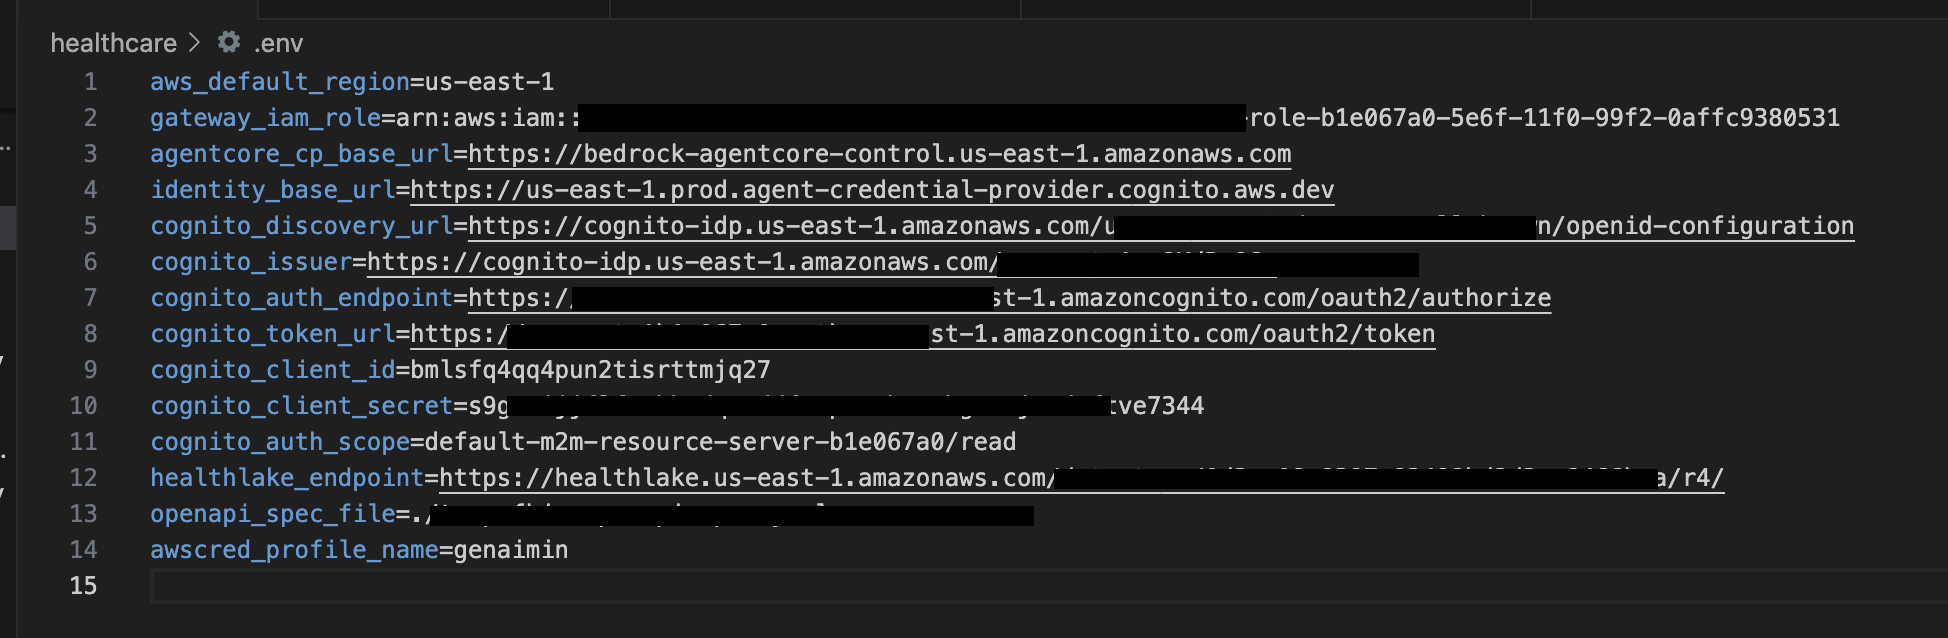
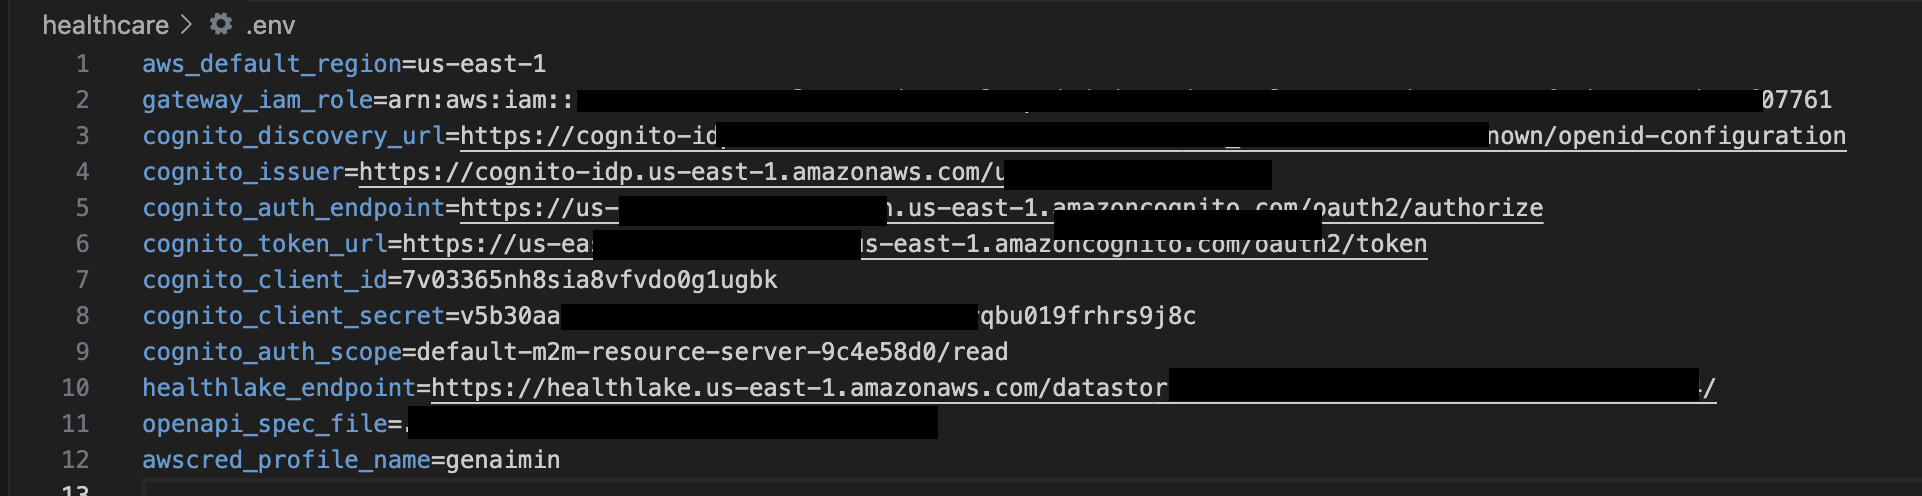
Removed endpoints

Changed region(s): [[0.0, 0.0302, 0.9677, 0.9677], [0.0312, 0.9677, 0.0624, 1.0]]

diff --git a/02-use-cases/05-Healthcare-Appointment-Agent/init_env.py b/02-use-cases/05-Healthcare-Appointment-Agent/init_env.py
@@ -16,8 +16,6 @@ parser = argparse.ArgumentParser(
 
 parser.add_argument('--cfn_name', help = "Name of cloudformation template")
 parser.add_argument('--region', default="us-east-1", help = "The AWS region to be used")
-parser.add_argument('--agentcore_endpoint', default="https://bedrock-agentcore-control.us-east-1.amazonaws.com", help = "The Gateway control plane endpoint")
-parser.add_argument('--identity_endpoint', default="https://us-east-1.prod.agent-credential-provider.cognito.aws.dev", help = "The endpoint for Identity primitive")
 parser.add_argument('--openapi_spec_file', default="./temp-fhir-openapi-spec.yaml", help = "Path of OpenAPI spec file")
 parser.add_argument('--profile', help = "AWS Credentials Profile Name (optional)")
 
@@ -29,8 +27,6 @@ def main():
     env_vars = {
         "aws_default_region": args.region,
         "gateway_iam_role": "",
-        "agentcore_cp_base_url":args.agentcore_endpoint,
-        "identity_base_url":args.identity_endpoint,
         "cognito_discovery_url":"",
         "cognito_issuer":"",
         "cognito_auth_endpoint":"",
@@ -148,20 +144,6 @@ if __name__ == "__main__":
         raise Exception("AWS Region is required")
     elif args.region!= "us-east-1" and args.region!= "us-west-2":
         raise Exception("Only regions us-east-1 and us-west-2 are supported for now")
-    
-    if args.agentcore_endpoint is None:
-        raise Exception("AgentCore endpoint is required")
-    else:
-        (urlString, exitCode) = validate_url(args.agentcore_endpoint)
-        if exitCode != 0:
-            raise Exception(urlString)
-        
-    if args.identity_endpoint is None:
-        raise Exception("Identity endpoint is required")
-    else:
-        (urlString, exitCode) = validate_url(args.identity_endpoint)
-        if exitCode != 0:
-            raise Exception(urlString)
         
     if args.openapi_spec_file is None:
         raise Exception("OpenAPI spec file path required")

diff --git a/02-use-cases/05-Healthcare-Appointment-Agent/utils.py b/02-use-cases/05-Healthcare-Appointment-Agent/utils.py
@@ -12,14 +12,12 @@ load_dotenv()
 def create_agentcore_client():
     #create boto3 session and client
     if os.getenv("awscred_profile_name") is None:
-        boto_session = boto3.Session() #using default profile
+        boto_session = boto3.Session(region_name=os.getenv("aws_default_region")) #using default profile
     else:
-        boto_session = boto3.Session(profile_name=os.getenv("awscred_profile_name"))
+        boto_session = boto3.Session(profile_name=os.getenv("awscred_profile_name"), region_name=os.getenv("aws_default_region"))
 
     agentcore_client = boto_session.client(
-        "bedrock-agentcore-control",
-        region_name=os.getenv("aws_default_region"),
-        endpoint_url=os.getenv("agentcore_cp_base_url")
+        "bedrock-agentcore-control"
     )
 
     return boto_session, agentcore_client
@@ -42,23 +40,6 @@ def list_gateways(agentcore_client):
     response = agentcore_client.list_gateways()
 
     return response['items']
-
-def list_egress_oauth_providers():
-    try:
-        command = [
-            "aws", "acps", "list-oauth2-credential-providers",
-            "--endpoint-url", os.getenv("identity_base_url"),
-            "--region", "us-east-1"
-        ]
-
-        if os.getenv("awscred_profile_name") is not None:
-            command.append("--profile")
-            command.append(os.getenv("awscred_profile_name"))
-
-        result = subprocess.run(command, capture_output=True, text=True, check=True)
-        return json.loads(result.stdout)
-    except Exception as e:
-        print(f"An error ocurred: {e}")
 
 def get_oath_token():
     response = requests.post(

diff --git a/02-use-cases/05-Healthcare-Appointment-Agent/setup_fhir_mcp.py b/02-use-cases/05-Healthcare-Appointment-Agent/setup_fhir_mcp.py
@@ -127,8 +127,7 @@ def delete_gateway(gateway_id):
 def create_egress_oauth_provider(gateway_name):
     acps_client = boto_session.client(
         "agentcredentialprovider",
-        region_name=os.getenv("aws_default_region"),
-        endpoint_url=os.getenv("identity_base_url")
+        region_name=os.getenv("aws_default_region")
     )
 
     cred_provider_name = f"{gateway_name}-oauth-credential-provider"
